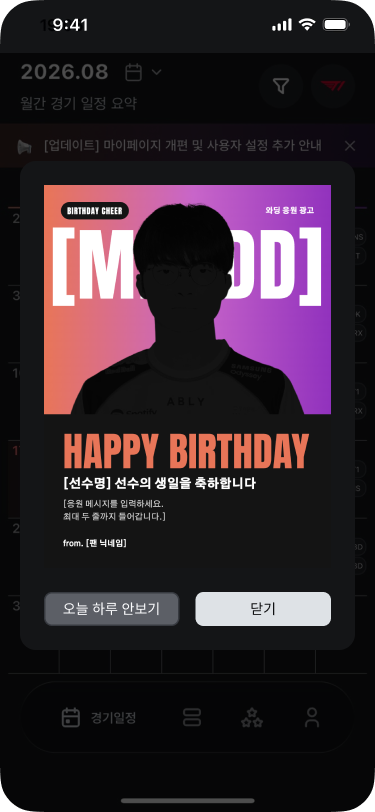
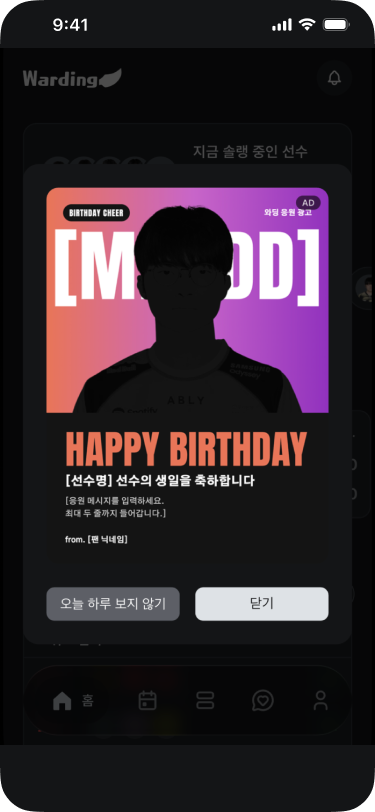
feat: 광고 자리 문구·예시 사진을 바꾸고 스플래시·팝업에도 등록 광고를 띄운다 (1.0.33+76)
모집 배너 문구가 "우리 선수 응원 광고 신청"이라 광고 살 사람을 선수 응원으로
좁혔다. "와딩 광고 신청 / 전하고 싶은 메시지를 와딩 앱에 올려보세요"로 바꿔
주어만 넓힌다 — 새 용도를 약속하면 상세 페이지·가격표(아직 응원 광고 기준)와
어긋나서다. 상세 페이지 문구는 그대로 둔다.

예시 사진 3개를 새 디자인 목업으로 갈고 자리별 focus·zoom 을 다시 잡았다.
스플래시는 가로로 납작한 칸에 세로로 긴 폰 목업을 넣는 구조라 크롭으로는
로고가 빠지지 않아, 광고 부분만 잘라낸 332x230 이미지로 바꿨다.
OverflowBox 의 maxWidth 가 area.maxWidth 로 묶여 zoom > 1 이 먹지 않던 것도
고쳤다.

스플래시·팝업도 백오피스 등록 광고를 띄운다. 두 자리는 CheerAdBannerCard 를
직접 써서 AdRepository 를 안 거쳤는데, CheerAdScreen 은 스플래시 6만·팝업
4만으로 팔고 있어 "팔지만 띄울 경로가 없는" 상태였다. 등록 광고 렌더를
RegisteredAdCard 로 빼서 다섯 자리가 함께 쓴다.

서버가 아직 splash·popup 을 거절하므로(Ad.PLACEMENTS 가 배너 3곳만 허용)
실제 노출은 백엔드 반영 후다. 광고가 없으면 모집 배너가 나와 순서에
상관없이 안전하다. 요청 문서는 warding-docs features/ad-placements-splash-popup.

에셋이 바뀌어 코드 푸시로는 못 나가고 스토어 빌드가 필요하다.

diff --git a/lib/components/cheer_ad_banner.dart b/lib/components/cheer_ad_banner.dart
@@ -62,45 +62,109 @@ class _CheerAdBannerState extends State<CheerAdBanner> {
               child: CheerAdBannerCard(scale: scale),
             );
           }
-          final link = ad.linkUrl;
-          return GestureDetector(
-            behavior: HitTestBehavior.opaque,
-            onTap: link == null
-                ? null
-                : () => launchUrl(
-                    Uri.parse(link),
-                    mode: LaunchMode.externalApplication,
-                  ),
-            child: AspectRatio(
-              aspectRatio: CheerAdSlot.banner.aspectRatio,
-              child: ClipRRect(
-                borderRadius: BorderRadius.circular(12 * scale),
-                child: Stack(
-                  children: [
-                    Positioned.fill(
-                      child: CachedNetworkImage(
-                        imageUrl: ad.imageUrl,
-                        fit: BoxFit.cover,
-                        // 로딩·실패 땐 회색 자리만 — 모집 배너로 바꿨다 되돌리면 깜빡여서.
-                        placeholder: (_, _) =>
-                            const ColoredBox(color: AppColors.narDark500),
-                        errorWidget: (_, _, _) =>
-                            const ColoredBox(color: AppColors.narDark500),
-                      ),
-                    ),
-                    // 실제 광고일수록 표시가 필요하다 — 모집 배너와 같은 자리에 둔다.
-                    Positioned(
-                      top: 8 * scale,
-                      right: 8 * scale,
-                      child: AdBadge(scale: scale),
-                    ),
-                  ],
-                ),
-              ),
-            ),
-          );
+          return RegisteredAdCard(ad: ad, scale: scale);
         },
       ),
+    );
+  }
+}
+
+/// 백오피스에 등록된 광고 한 건을 [slot] 규격 비율로 그린다. 이동 주소가 있으면
+/// 눌러서 외부 브라우저로 연다. 다섯 자리(배너 3곳·스플래시·팝업)가 함께 쓴다.
+class RegisteredAdCard extends StatelessWidget {
+  const RegisteredAdCard({
+    super.key,
+    required this.ad,
+    required this.scale,
+    this.slot = CheerAdSlot.banner,
+  });
+
+  final Ad ad;
+  final double scale;
+  final CheerAdSlot slot;
+
+  @override
+  Widget build(BuildContext context) {
+    final link = ad.linkUrl;
+    return GestureDetector(
+      behavior: HitTestBehavior.opaque,
+      onTap: link == null
+          ? null
+          : () => launchUrl(
+              Uri.parse(link),
+              mode: LaunchMode.externalApplication,
+            ),
+      child: AspectRatio(
+        aspectRatio: slot.aspectRatio,
+        child: ClipRRect(
+          borderRadius: BorderRadius.circular(12 * scale),
+          child: Stack(
+            children: [
+              Positioned.fill(
+                child: CachedNetworkImage(
+                  imageUrl: ad.imageUrl,
+                  fit: BoxFit.cover,
+                  // 로딩·실패 땐 회색 자리만 — 모집 배너로 바꿨다 되돌리면 깜빡여서.
+                  placeholder: (_, _) =>
+                      const ColoredBox(color: AppColors.narDark500),
+                  errorWidget: (_, _, _) =>
+                      const ColoredBox(color: AppColors.narDark500),
+                ),
+              ),
+              // 실제 광고일수록 표시가 필요하다 — 모집 배너와 같은 자리에 둔다.
+              Positioned(
+                top: 8 * scale,
+                right: 8 * scale,
+                child: AdBadge(scale: scale),
+              ),
+            ],
+          ),
+        ),
+      ),
+    );
+  }
+}
+
+/// 스플래시·팝업 자리. 등록 광고가 있으면 그 이미지를, 없으면 모집 배너를 둔다.
+/// 배너 3곳의 [CheerAdBanner] 와 같은 일을 하되 여백·탭 동작은 호출 쪽에 맡긴다
+/// (스플래시는 눌리지 않고, 팝업은 카드 전체가 신청 화면으로 가는 버튼이다).
+class CheerAdSlotView extends StatefulWidget {
+  const CheerAdSlotView({
+    super.key,
+    required this.placement,
+    required this.scale,
+    required this.slot,
+  });
+
+  /// 백오피스 광고 위치 키: splash | popup.
+  final String placement;
+  final double scale;
+  final CheerAdSlot slot;
+
+  @override
+  State<CheerAdSlotView> createState() => _CheerAdSlotViewState();
+}
+
+class _CheerAdSlotViewState extends State<CheerAdSlotView> {
+  late final Future<Ad?> _ad = AdRepository.instance.forPlacement(
+    widget.placement,
+  );
+
+  @override
+  Widget build(BuildContext context) {
+    return FutureBuilder<Ad?>(
+      future: _ad,
+      builder: (context, snapshot) {
+        final ad = snapshot.data;
+        if (ad == null) {
+          return CheerAdBannerCard(scale: widget.scale, slot: widget.slot);
+        }
+        return RegisteredAdCard(
+          ad: ad,
+          scale: widget.scale,
+          slot: widget.slot,
+        );
+      },
     );
   }
 }
@@ -112,25 +176,29 @@ enum CheerAdSlot {
   banner(
     'assets/images/cheer_ad/banner.png',
     960 / 300,
-    Alignment(0, 0.15),
+    Alignment(0, -0.52),
     16,
     12,
+    zoom: 0.8,
   ),
   splash(
     'assets/images/cheer_ad/splash.png',
     1080 / 720,
-    Alignment(0, 0.85),
+    // 이 에셋은 폰 목업이 아니라 광고 부분만 잘라낸 그림이다. 줄여서 넣어
+    // 위아래 여백이 보이게 한다.
+    Alignment(0, 0),
     22,
     15,
-    zoom: 0.72,
+    zoom: 0.78,
   ),
   popup(
     'assets/images/cheer_ad/popup.png',
     1080 / 1440,
-    Alignment(0, -0.2),
+    Alignment(0, -0.32),
     24,
-    15,
-    zoom: 0.72,
+    // 부제가 길어 15 에서는 두 줄로 쪼개진다("...올려보세 / 요").
+    13,
+    zoom: 0.32,
   );
 
   const CheerAdSlot(
@@ -181,8 +249,15 @@ class CheerAdBannerCard extends StatelessWidget {
       child: LayoutBuilder(
         builder: (context, area) => ClipRect(
           child: OverflowBox(
-            alignment: Alignment(portrait ? 0 : 1, slot.focus.y),
-            maxWidth: area.maxWidth,
+            // 스플래시 예시 사진은 광고만 잘라낸 그림이라 가운데에 둔다(오른쪽에
+            // 붙이면 줄여 넣었을 때 한쪽으로 쏠린다).
+            alignment: Alignment(
+              portrait || slot == CheerAdSlot.splash ? 0 : 1,
+              slot.focus.y,
+            ),
+            // zoom > 1 로 확대하려면 폭 제한도 함께 풀어야 한다 — area.maxWidth 로
+            // 묶어 두면 SizedBox 가 그 값으로 잘려 확대가 먹지 않는다.
+            maxWidth: area.maxWidth * (slot.zoom > 1 ? slot.zoom : 1),
             minHeight: 0,
             maxHeight: double.infinity,
             child: SizedBox(
@@ -244,7 +319,8 @@ class CheerAdBannerCard extends StatelessWidget {
                   top: 0,
                   bottom: 0,
                   right: 0,
-                  width: c.maxWidth * 0.45,
+                  // 스플래시 예시 사진은 광고만 잘라낸 그림이라 넓게 보여준다.
+                  width: c.maxWidth * (slot == CheerAdSlot.splash ? 0.52 : 0.45),
                   child: image,
                 ),
               Padding(
@@ -256,7 +332,8 @@ class CheerAdBannerCard extends StatelessWidget {
                 ),
                 child: text,
               ),
-              // 광고 표시는 항상 맨 위에 — 사진·문구에 가리면 표시 의무를 못 지킨다.
+              // 예시 사진 안에도 뱃지가 찍혀 있지만 페이드·크롭에 묻혀 잘 안 보인다.
+              // 광고 자리라는 표시는 항상 읽혀야 하므로 앱이 따로 얹는다.
               Positioned(
                 top: 8 * scale,
                 right: 8 * scale,

diff --git a/lib/components/cheer_ad_popup.dart b/lib/components/cheer_ad_popup.dart
@@ -2,6 +2,7 @@ import 'package:flutter/foundation.dart' show kDebugMode, debugPrint;
 import 'package:flutter/material.dart';
 
 import '../l10n/app_localizations.dart';
+import '../repository/ad/ad_repository.dart';
 import '../repository/preference/cheer_ad_popup_preference_repository.dart';
 import '../screens/cheer_ad/cheer_ad_screen.dart';
 import 'cheer_ad_banner.dart';
@@ -45,16 +46,7 @@ Future<void> _showCheerAdPopup(BuildContext context) {
   final navigator = Navigator.of(context);
   return showNarPopup<void>(
     context: context,
-    child: GestureDetector(
-      behavior: HitTestBehavior.opaque,
-      onTap: () {
-        navigator.pop();
-        navigator.push(
-          MaterialPageRoute<void>(builder: (_) => const CheerAdScreen()),
-        );
-      },
-      child: CheerAdBannerCard(scale: scale, slot: CheerAdSlot.popup),
-    ),
+    child: _PopupAdCard(scale: scale, navigator: navigator),
     actions: [
       NarPopupAction(
         label: l.cheerAdPopupDismissToday,
@@ -71,4 +63,49 @@ Future<void> _showCheerAdPopup(BuildContext context) {
       ),
     ],
   );
+}
+
+/// 팝업 안 카드. 백오피스에 `popup` 자리 광고가 있으면 그 광고를(탭하면 광고주
+/// 주소로), 없으면 모집 배너를(탭하면 신청 화면으로) 띄운다.
+class _PopupAdCard extends StatefulWidget {
+  const _PopupAdCard({required this.scale, required this.navigator});
+
+  final double scale;
+  final NavigatorState navigator;
+
+  @override
+  State<_PopupAdCard> createState() => _PopupAdCardState();
+}
+
+class _PopupAdCardState extends State<_PopupAdCard> {
+  late final Future<Ad?> _ad = AdRepository.instance.forPlacement('popup');
+
+  @override
+  Widget build(BuildContext context) {
+    final scale = widget.scale;
+    return FutureBuilder<Ad?>(
+      future: _ad,
+      builder: (context, snapshot) {
+        final ad = snapshot.data;
+        if (ad != null) {
+          // 등록 광고는 자기 이동 주소를 갖는다(RegisteredAdCard 가 탭을 처리).
+          return RegisteredAdCard(
+            ad: ad,
+            scale: scale,
+            slot: CheerAdSlot.popup,
+          );
+        }
+        return GestureDetector(
+          behavior: HitTestBehavior.opaque,
+          onTap: () {
+            widget.navigator.pop();
+            widget.navigator.push(
+              MaterialPageRoute<void>(builder: (_) => const CheerAdScreen()),
+            );
+          },
+          child: CheerAdBannerCard(scale: scale, slot: CheerAdSlot.popup),
+        );
+      },
+    );
+  }
 }

diff --git a/lib/l10n/app_localizations.dart b/lib/l10n/app_localizations.dart
@@ -383,13 +383,13 @@ abstract class AppLocalizations {
   /// No description provided for @homeCheerAdTitle.
   ///
   /// In ko, this message translates to:
-  /// **'우리 선수 응원 광고 신청'**
+  /// **'와딩 광고 신청'**
   String get homeCheerAdTitle;
 
   /// No description provided for @homeCheerAdSubtitle.
   ///
   /// In ko, this message translates to:
-  /// **'와딩 앱에 응원 메시지를 올려드려요'**
+  /// **'전하고 싶은 메시지를 와딩 앱에 올려보세요'**
   String get homeCheerAdSubtitle;
 
   /// No description provided for @cheerAdScreenTitle.

diff --git a/lib/l10n/app_localizations_ko.dart b/lib/l10n/app_localizations_ko.dart
@@ -162,10 +162,10 @@ class AppLocalizationsKo extends AppLocalizations {
   String get homeNoticeDefault => '새로운 소식을 확인해보세요';
 
   @override
-  String get homeCheerAdTitle => '우리 선수 응원 광고 신청';
+  String get homeCheerAdTitle => '와딩 광고 신청';
 
   @override
-  String get homeCheerAdSubtitle => '와딩 앱에 응원 메시지를 올려드려요';
+  String get homeCheerAdSubtitle => '전하고 싶은 메시지를 와딩 앱에 올려보세요';
 
   @override
   String get cheerAdScreenTitle => '응원 광고 신청';

diff --git a/lib/l10n/app_localizations_en.dart b/lib/l10n/app_localizations_en.dart
@@ -164,11 +164,10 @@ class AppLocalizationsEn extends AppLocalizations {
   String get homeNoticeDefault => 'Check out what\'s new';
 
   @override
-  String get homeCheerAdTitle => 'Book a cheer ad for our player';
+  String get homeCheerAdTitle => 'Advertise on Warding';
 
   @override
-  String get homeCheerAdSubtitle =>
-      'We\'ll put your message up in the Warding app';
+  String get homeCheerAdSubtitle => 'Put your message up in the Warding app';
 
   @override
   String get cheerAdScreenTitle => 'Cheer ad';

diff --git a/lib/screens/splash_screen.dart b/lib/screens/splash_screen.dart
@@ -397,7 +397,11 @@ class _SplashScreenState extends State<SplashScreen>
             left: 20 * scale,
             right: 20 * scale,
             bottom: 24 * scale + MediaQuery.of(context).padding.bottom,
-            child: CheerAdBannerCard(scale: scale, slot: CheerAdSlot.splash),
+            child: CheerAdSlotView(
+              placement: 'splash',
+              scale: scale,
+              slot: CheerAdSlot.splash,
+            ),
           ),
         ],
       ),

diff --git a/test/components/cheer_ad_banner_width_test.dart b/test/components/cheer_ad_banner_width_test.dart
@@ -83,9 +83,7 @@ void main() {
     addTearDown(tester.view.reset);
 
     for (final slot in CheerAdSlot.values) {
-      await tester.pumpWidget(
-        _host(CheerAdBannerCard(scale: 1, slot: slot)),
-      );
+      await tester.pumpWidget(_host(CheerAdBannerCard(scale: 1, slot: slot)));
       await tester.pump();
 
       expect(find.text('AD'), findsOneWidget, reason: '$slot 에 AD 뱃지가 없다');

diff --git a/wiki/log.md b/wiki/log.md
@@ -1,7 +1,9 @@
 # Bundle Update Log
 
 ## 2026-10-13
-* **응원 광고 팝업은 '오늘 하루 보지 않기' 를 눌러야 멈춘다 + 배너 폭 조정 + AD 뱃지**: 팝업이 "하루 한 번·실행당 한 번"이라 한 번 뜨고 나면 그날은 다시 못 보는 데다, 실행당 한 번을 막는 `_shownThisSession` 이 전역이라 핫 리로드로도 안 풀려 확인이 어려웠다. 이제 **그냥 닫으면 다음 홈 진입에 또 뜨고**, `오늘 하루 보지 않기` 를 눌렀을 때만 그날치를 건너뛴다. 하단 버튼을 `닫기`·`자세히 보기` 에서 **`오늘 하루 보지 않기`(왼쪽)·`닫기`(오른쪽)** 로 바꾸고, 신청 화면(`CheerAdScreen`)으로는 **배너 카드를 직접 눌러** 들어간다 — 광고 자리 자체가 버튼이라 '자세히 보기' 를 따로 둘 이유가 없다(`cheerAdPopupConfirm` 문구 삭제). 저장 키도 `cheer_ad_popup_shown_date` → `cheer_ad_popup_dismissed_date` 로 바꿔, 옛 "띄웠음" 기록이 "그만 보겠다"로 읽히지 않게 했다(기존 사용자는 한 번 더 보게 된다). 세션 플래그를 없애고 겹침 방지용 `_showing` 만 남겼다. 가이드 팝업이 뜬 세션에서 건너뛰는 규칙과 디버그에서 날짜 제한을 무시하는 동작은 그대로다. 함께 `CheerAdBanner` 에 `horizontalPadding`(기본 16)을 두고 자리별로 좌우 여백을 달리한다 — **홈 20**(다른 홈 섹션들이 전부 `horizontal: 20 * scale` 이라 그 선에 맞춘다), **경기 리스트·경기 상세 8**(목록 카드보다 넓게 빼 광고 자리를 키운다). 함께 **둥근 `AD` 뱃지**를 광고 자리 오른쪽 위에 붙였다 — 모집 배너(배너·스플래시·팝업 세 슬롯 공통)와 백오피스 등록 광고 이미지 **둘 다**. 스토어 심사(App Store 3.2.2 / Play 광고 정책)가 광고임을 알아볼 수 있게 표시하도록 요구하고, 실제 광고 쪽이 표시가 더 필요한데 그 경로는 `CheerAdBannerCard` 를 거치지 않아 따로 얹어야 했다. 색은 `narAdBadgeBg`(검정 60%)·`narAdBadgeText`(흰색 80%) 토큰을 새로 뒀다 — 사진 위에 올라가도 읽혀야 해서다. 테스트 5개 추가(기본 여백, 전체 폭, 홈 20/경기 8 정렬, 960×300 비율, 세 슬롯 AD 뱃지). Dart만 바뀌어 코드 푸시로 나간다.
+* **응원 광고 팝업은 '오늘 하루 보지 않기' 를 눌러야 멈춘다 + 배너 폭 조정 + AD 뱃지**: 팝업이 "하루 한 번·실행당 한 번"이라 한 번 뜨고 나면 그날은 다시 못 보는 데다, 실행당 한 번을 막는 `_shownThisSession` 이 전역이라 핫 리로드로도 안 풀려 확인이 어려웠다. 이제 **그냥 닫으면 다음 홈 진입에 또 뜨고**, `오늘 하루 보지 않기` 를 눌렀을 때만 그날치를 건너뛴다. 하단 버튼을 `닫기`·`자세히 보기` 에서 **`오늘 하루 보지 않기`(왼쪽)·`닫기`(오른쪽)** 로 바꾸고, 신청 화면(`CheerAdScreen`)으로는 **배너 카드를 직접 눌러** 들어간다 — 광고 자리 자체가 버튼이라 '자세히 보기' 를 따로 둘 이유가 없다(`cheerAdPopupConfirm` 문구 삭제). 저장 키도 `cheer_ad_popup_shown_date` → `cheer_ad_popup_dismissed_date` 로 바꿔, 옛 "띄웠음" 기록이 "그만 보겠다"로 읽히지 않게 했다(기존 사용자는 한 번 더 보게 된다). 세션 플래그를 없애고 겹침 방지용 `_showing` 만 남겼다. 가이드 팝업이 뜬 세션에서 건너뛰는 규칙과 디버그에서 날짜 제한을 무시하는 동작은 그대로다. 함께 `CheerAdBanner` 에 `horizontalPadding`(기본 16)을 두고 자리별로 좌우 여백을 달리한다 — **홈 20**(다른 홈 섹션들이 전부 `horizontal: 20 * scale` 이라 그 선에 맞춘다), **경기 리스트·경기 상세 8**(목록 카드보다 넓게 빼 광고 자리를 키운다). 함께 **둥근 `AD` 뱃지**를 광고 자리 오른쪽 위에 붙였다 — 모집 배너(배너·스플래시·팝업 세 슬롯 공통)와 백오피스 등록 광고 이미지 **둘 다**. 스토어 심사(App Store 3.2.2 / Play 광고 정책)가 광고임을 알아볼 수 있게 표시하도록 요구하고, 실제 광고 쪽이 표시가 더 필요한데 그 경로는 `CheerAdBannerCard` 를 거치지 않아 따로 얹어야 했다. 색은 `narAdBadgeBg`(검정 60%)·`narAdBadgeText`(흰색 80%) 토큰을 새로 뒀다 — 사진 위에 올라가도 읽혀야 해서다. 테스트 5개 추가(기본 여백, 전체 폭, 홈 20/경기 8 정렬, 960×300 비율, 세 슬롯 AD 뱃지).
+
+* **광고 자리 문구·예시 사진 교체 + 스플래시·팝업에도 등록 광고를 띄운다**: 모집 배너 문구를 "우리 선수 응원 광고 신청 / 와딩 앱에 응원 메시지를 올려드려요" → **"와딩 광고 신청 / 전하고 싶은 메시지를 와딩 앱에 올려보세요"** 로 바꿨다. 제목이 선수 응원에 묶여 있어 광고 살 사람을 좁혔고, 부제까지 '응원'을 반복했다. 새 용도(브랜드 홍보 등)를 약속하지 않으면서 주어만 넓히는 쪽을 골랐다 — 상세 페이지·가격표가 아직 응원 광고 기준이라 "응원부터 브랜드 홍보까지" 식으로 쓰면 그 문서들과 어긋난다. 상세 페이지(`cheerAdHeadline`)는 그대로 둔다(거기까지 온 사람에겐 구체적인 쪽이 낫다). 예시 사진 3개(`assets/images/cheer_ad/*.png`)를 새 디자인 목업으로 갈고 자리별 `focus`·`zoom` 을 다시 잡았다. 스플래시는 폰 목업 전체를 쓰면 로고가 같이 들어와(가로로 납작한 1.5:1 칸에 세로로 긴 목업을 욱여넣는 구조라 크롭으로는 안 풀렸다) **광고 부분만 잘라낸 332×230 이미지**로 바꾸고 `focus`·`zoom` 을 없앴다. `OverflowBox` 의 `maxWidth` 가 `area.maxWidth` 로 묶여 있어 zoom > 1 이 먹지 않던 것도 고쳤다. 그리고 **스플래시·팝업도 백오피스 등록 광고를 띄운다** — 두 자리는 `CheerAdBannerCard` 를 직접 써서 `AdRepository` 를 아예 안 거쳤는데, `CheerAdScreen` 은 스플래시 6만·팝업 4만으로 팔고 있어 "팔지만 띄울 경로가 없는" 상태였다. 등록 광고 렌더를 `RegisteredAdCard` 로 빼서 다섯 자리가 같이 쓰고, 스플래시는 `CheerAdSlotView`, 팝업은 `_PopupAdCard` 가 조회를 맡는다(등록 광고는 광고주 주소로, 모집 배너는 신청 화면으로 — 탭 동작이 달라 자리마다 따로 둔다). **서버가 아직 `splash`·`popup` 을 거절하므로**(`Ad.PLACEMENTS` 가 배너 3곳만 허용) 실제 노출은 백엔드 반영 후다. 광고가 없으면 지금처럼 모집 배너가 나와 순서에 상관없이 안전하다. 요청 문서는 warding-docs `features/ad-placements-splash-popup/spec.md`. **에셋이 바뀌어 코드 푸시로는 못 나가고 스토어 빌드가 필요하다**(1.0.33+76).
 * **응원 광고 자리 도입**: 홈·경기 리스트·경기 상세의 `AdvertiserBanner` 를 회색 `CheerAdBanner`("우리 선수 응원 광고 신청", 오른쪽에 자리별 예시 사진)로 바꾸고, 누르면 가격 타일 3개가 있는 `CheerAdScreen` → 하단 `상세 보기` → 기존 `AdGuideScreen`(백오피스 공지 `ad-guide` + 구글폼)으로 잇는다. 스플래시 하단에 같은 카드를 두고 대기를 600ms→3.5초로 늘렸다. 홈 진입 팝업(`maybeShowCheerAdPopup`)은 하루(KST) 한 번·실행당 한 번이고 가이드 팝업이 뜬 세션에서는 건너뛴다(디버그에선 하루 제한 무시) — 이 노출 규칙은 같은 날 '오늘 하루 보지 않기' 기준으로 바뀌었다(위 항목). 광고 안내 화면은 `NoticeDetailScreen(landing: true)` 로 작성자·날짜 줄을 빼고 제목·본문 크기를 조정했다. 경기 리스트 광고는 3그룹마다에서 8그룹마다(3번째 그룹 앞부터)로 줄였다. 카드 비율은 광고 규격(배너 960×300, 스플래시 1080×720, 팝업 1080×1440). 가격은 `CheerAdScreen` 에 하드코딩(배너 2만·팝업 4만·스플래시 6만, 오픈 50% 할인)이라 백오피스 공지 가격과 이중 관리다.
 
 ## 2026-10-10
